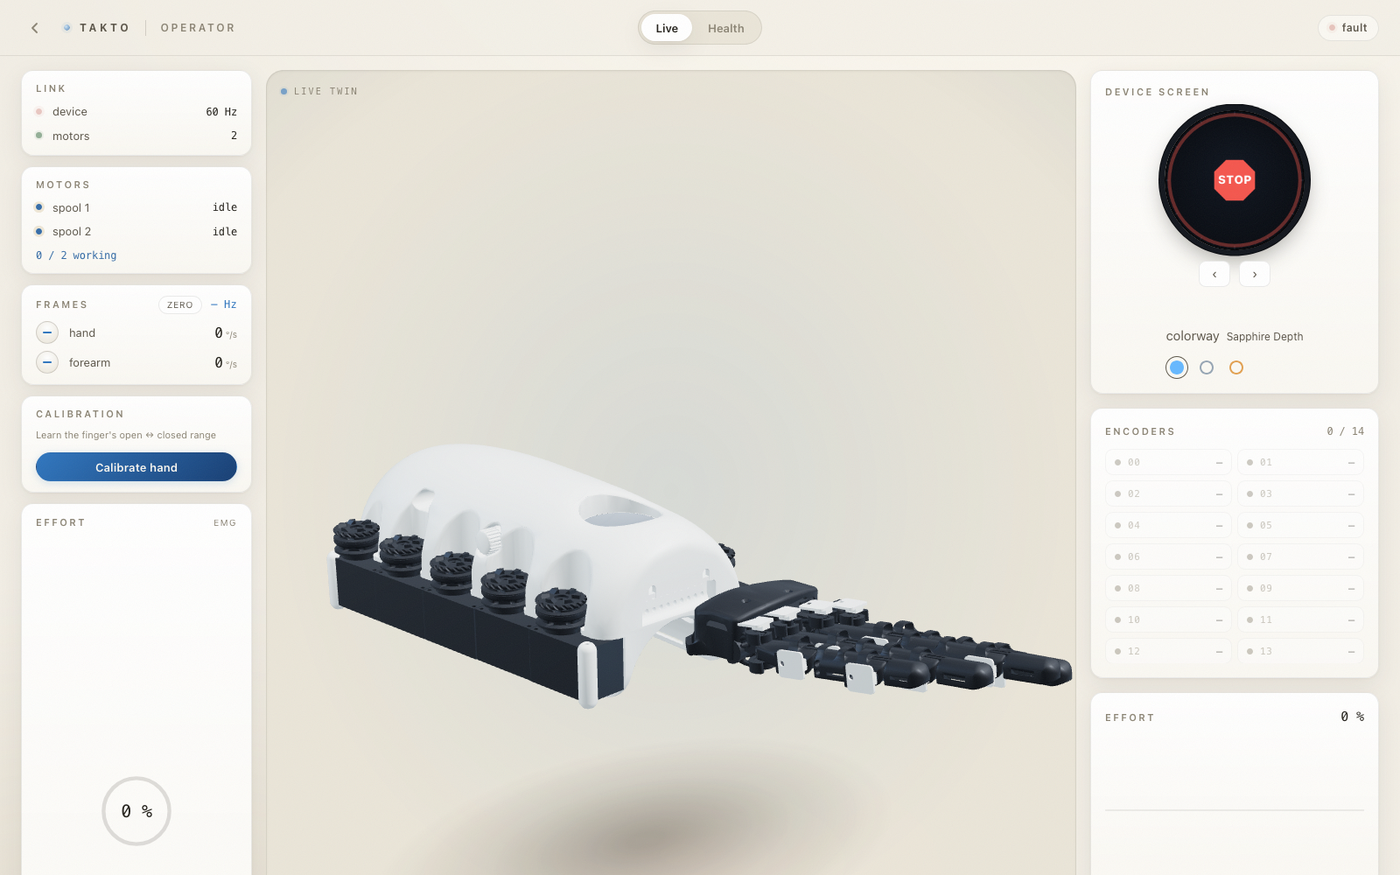
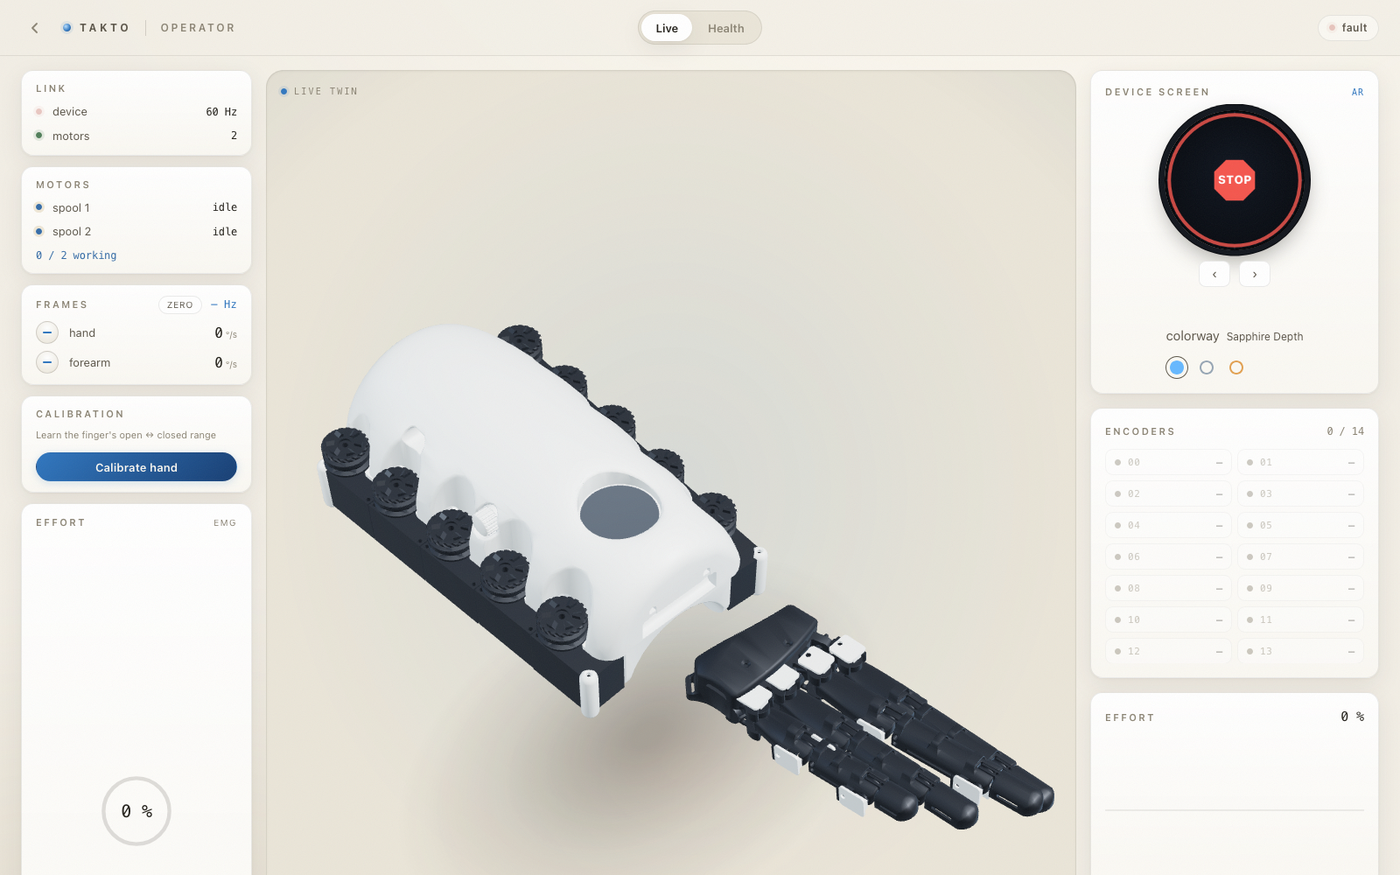
Reframe the applications section, fix the imagery, drop emojis
The applications intro said the point of opening the project was that others
would take it 'somewhere the author could not', which reads as a limitation
rather than an invitation. It now leads with what is already built and frames
the list as parallel work that open sourcing makes possible sooner.

Imagery:
- Hero re-centred on the devices themselves. Brightness thresholding kept
  catching the soft shadow, so the segmentation now subtracts a heavily blurred
  background estimate: smooth shadow cancels, hard-edged objects survive. The
  units are centred to within a pixel; the shadows fall where they fall.
- Personalize triptych re-rendered with the hands open, on a genuinely flat
  white background so the panels no longer show borders against the page, and
  laid out on a 24px grid where the gap under the headline is larger than the
  gap between each device and its label.
- Website and console captured at chosen poses and camera angles rather than
  whatever frame the simulator happened to be on. The console twin's camera is
  raised, because the default angle foreshortens the fingers into a cluster.

Emojis removed from the applications table, and Personalize moved up the page.

diff --git a/README.md b/README.md
@@ -34,24 +34,34 @@ what you point it at is up to you.
 
 ## What people could build with this
 
-**None of the following is a finished feature.** They are the directions this hardware opens,
-listed because the reason to open-source a platform is that other people take it somewhere the
-author could not. What is actually built and measured today is in
-[Where the project really stands](#where-the-project-really-stands) below.
+**These are directions, not delivered features.** The foundation under them is built and
+working: twelve sensed joints, tendon actuation, two custom boards, firmware, and a full
+software stack. What that foundation opens up is far wider than any one roadmap — every line
+below could be a project in its own right. Open sourcing it is how they get to happen in
+parallel, and how they get to happen sooner. Current status is in
+[Where the project really stands](#where-the-project-really-stands).
 
 | | |
 | --- | --- |
-| 🤖 **Teleoperate a robot hand** | Your fingers become the controller. Per-joint angles map onto a robot hand directly, without a camera rig or a motion-capture volume. Reach further than the operator can stand: an undersea manipulator, a hot cell, a machine on another continent. |
-| 🧠 **Generate training data machines can trust** | Vision-based hand datasets inherit vision's blind spots. Joint encoders give clean, occlusion-free, per-joint ground truth at 60 Hz — labelled by physics rather than by a model's guess. Untethered, so the data comes from real tasks rather than a capture studio. |
-| 🤟 **Sign language capture and recognition** | Already underway, not speculation — see [Sign language](#sign-language-a-worked-example) below. |
-| 🎮 **Force feedback, per finger** | A PlayStation 5 trigger can vary its resistance as you press. This device has a tendon and a motor on each finger, so the same idea generalises: feel a virtual wall, a trigger pull, the give of tissue, the weight of a load — finger by finger rather than through one rumbling handle. |
-| 🩺 **Rehabilitation and assessment** | Range of motion measured objectively, session over session, instead of estimated by eye. Assisted movement for a hand that cannot complete it alone. |
-| 🕹 **High-precision machine control** | Operating equipment where a joystick is too blunt and a touchscreen is impossible — gloved, wet, in the dark, or while your eyes are needed elsewhere. |
-| 🥊 **Whatever you are actually here for** | A boxer driving a sparring robot, a surgeon rehearsing at distance, a musician mapping fingers to synthesis. The platform does not care. |
+| **Teleoperate a robot hand** | Your fingers become the controller. Per-joint angles map onto a robot hand directly, without a camera rig or a motion-capture volume. Reach further than the operator can stand: an undersea manipulator, a hot cell, a machine on another continent. |
+| **Generate training data machines can trust** | Vision-based hand datasets inherit vision's blind spots. Joint encoders give clean, occlusion-free, per-joint ground truth at 60 Hz — labelled by physics rather than by a model's guess. Untethered, so the data comes from real tasks rather than a capture studio. |
+| **Sign language capture and recognition** | Already underway, not speculation — see [Sign language](#sign-language-a-worked-example) below. |
+| **Force feedback, per finger** | A PlayStation 5 trigger can vary its resistance as you press. This device has a tendon and a motor on each finger, so the same idea generalises: feel a virtual wall, a trigger pull, the give of tissue, the weight of a load — finger by finger rather than through one rumbling handle. |
+| **Rehabilitation and assessment** | Range of motion measured objectively, session over session, instead of estimated by eye. Assisted movement for a hand that cannot complete it alone. |
+| **High-precision machine control** | Operating equipment where a joystick is too blunt and a touchscreen is impossible — gloved, wet, in the dark, or while your eyes are needed elsewhere. |
+| **Whatever you are actually here for** | A boxer driving a sparring robot, a surgeon rehearsing at distance, a musician mapping fingers to synthesis. The platform does not care. |
 
-The honest version: **the hardware to sense and actuate is here and working. Almost all of that
-list is unbuilt.** That is the invitation, and it is why the project is open rather than
-protected.
+To be precise about status: **the sensing and the actuation are built and working; the
+applications above are open ground.** If one of them is what you need, the hard engineering is
+already behind you — you would be starting from a working platform rather than from nothing.
+
+<div align="center">
+
+<img src="docs/media/personalize.png" alt="Personalize it — three colourways" width="100%">
+
+</div>
+
+---
 
 ## The machine
 
@@ -65,14 +75,6 @@ protected.
 | **Electronics** | 2 custom PCBs, full KiCad sources + manufacturing outputs |
 | **Interface** | Browser operator console with a live 3D twin, over a serial→WebSocket bridge |
 | **Structure** | 3D printed; as built, a mix of PETG and PLA |
-
----
-
-<div align="center">
-
-<img src="docs/media/personalize.png" alt="Personalize it — three colourways" width="100%">
-
-</div>
 
 ---
 
